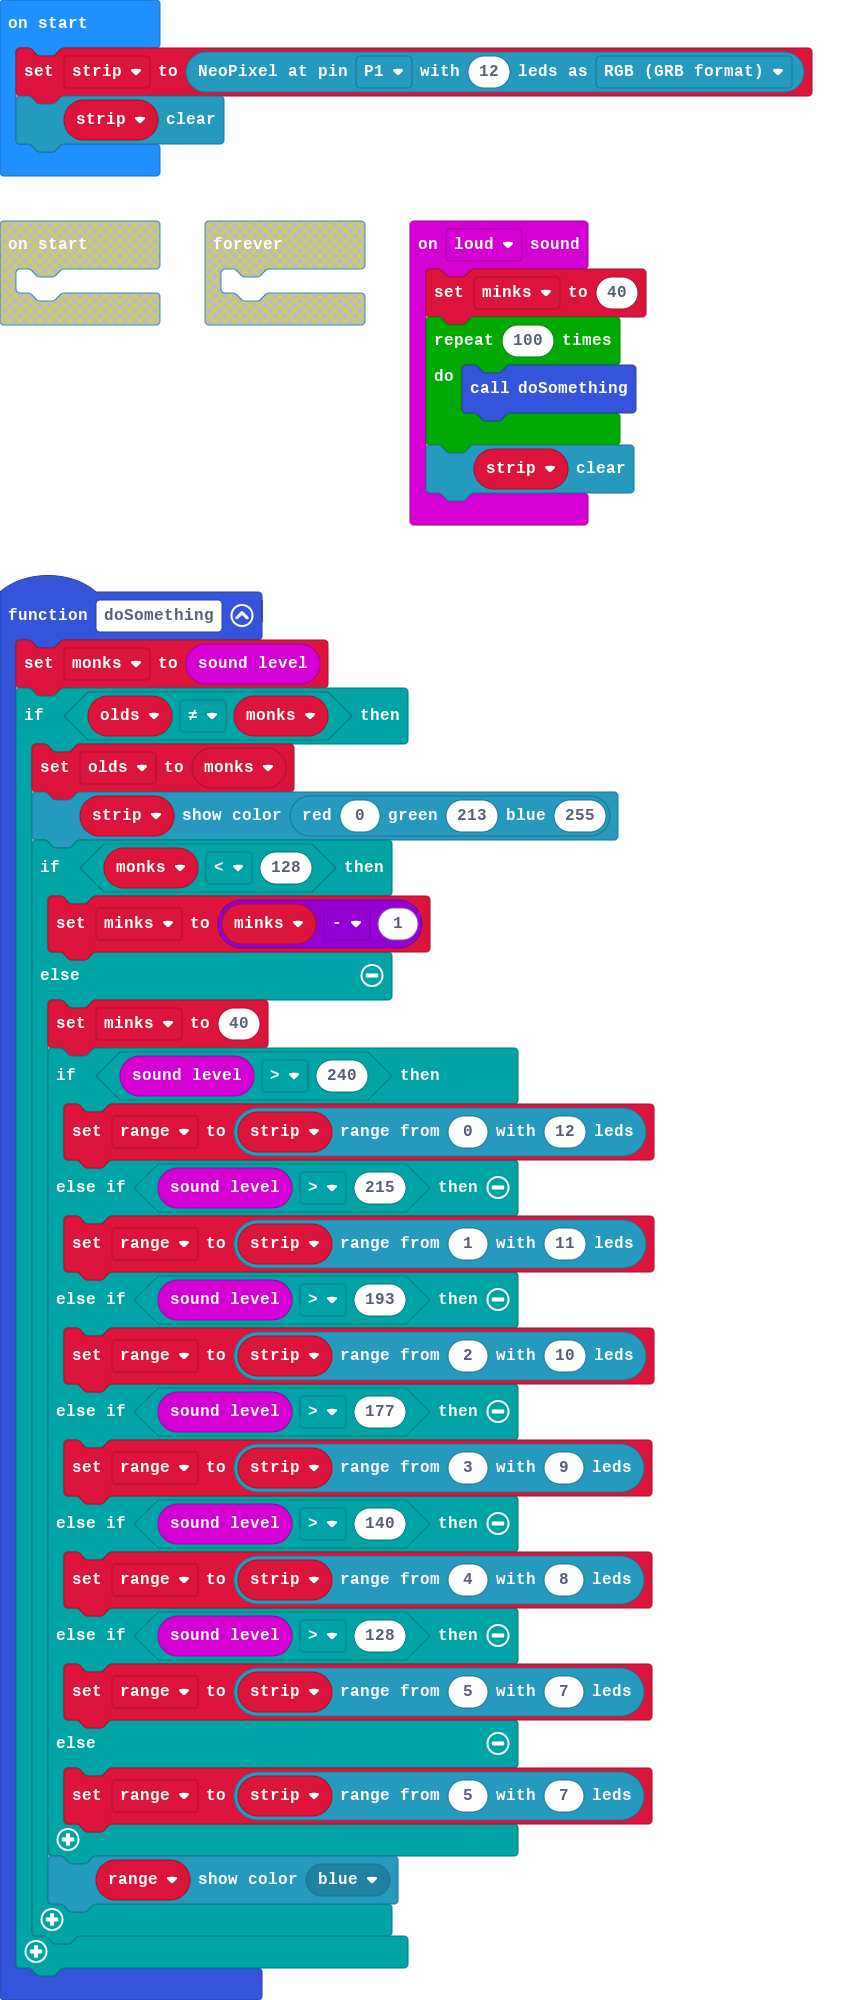
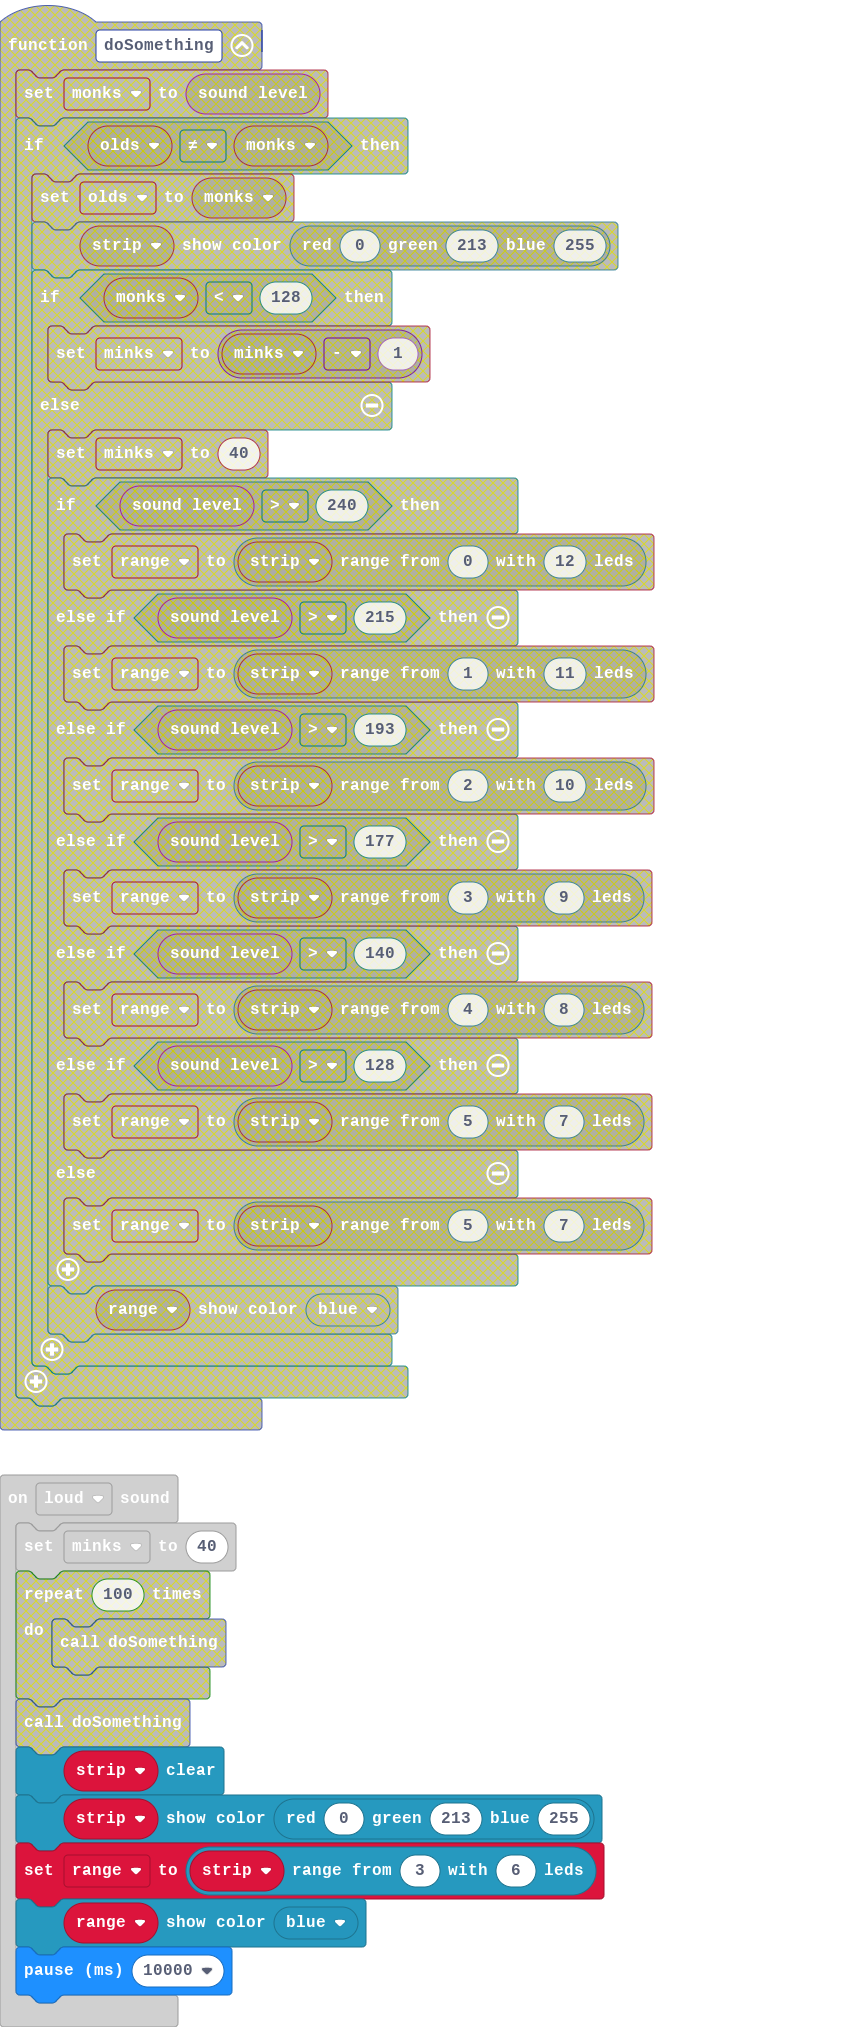
Update main.blocks, main.ts

diff --git a/main.ts b/main.ts
@@ -1,42 +1,13 @@
-function doSomething () {
-    monks = input.soundLevel()
-    if (olds != monks) {
-        olds = monks
-        strip.showColor(neopixel.rgb(0, 213, 255))
-        if (monks < 128) {
-            minks = minks - 1
-        } else {
-            minks = 40
-            if (input.soundLevel() > 240) {
-                range = strip.range(0, 12)
-            } else if (input.soundLevel() > 215) {
-                range = strip.range(1, 11)
-            } else if (input.soundLevel() > 193) {
-                range = strip.range(2, 10)
-            } else if (input.soundLevel() > 177) {
-                range = strip.range(3, 9)
-            } else if (input.soundLevel() > 140) {
-                range = strip.range(4, 8)
-            } else if (input.soundLevel() > 128) {
-                range = strip.range(5, 7)
-            } else {
-                range = strip.range(5, 7)
-            }
-            range.showColor(neopixel.colors(NeoPixelColors.Blue))
-        }
-    }
-}
 input.onSound(DetectedSound.Loud, function () {
     minks = 40
-    for (let index = 0; index < 100; index++) {
-        doSomething()
-    }
+    strip.showColor(neopixel.rgb(0, 213, 255))
+    range = strip.range(3, 6)
+    range.showColor(neopixel.colors(NeoPixelColors.Blue))
+    basic.pause(10000)
     strip.clear()
 })
 let range: neopixel.Strip = null
 let minks = 0
-let olds = 0
-let monks = 0
 let strip: neopixel.Strip = null
 strip = neopixel.create(DigitalPin.P1, 12, NeoPixelMode.RGB)
 strip.clear()
